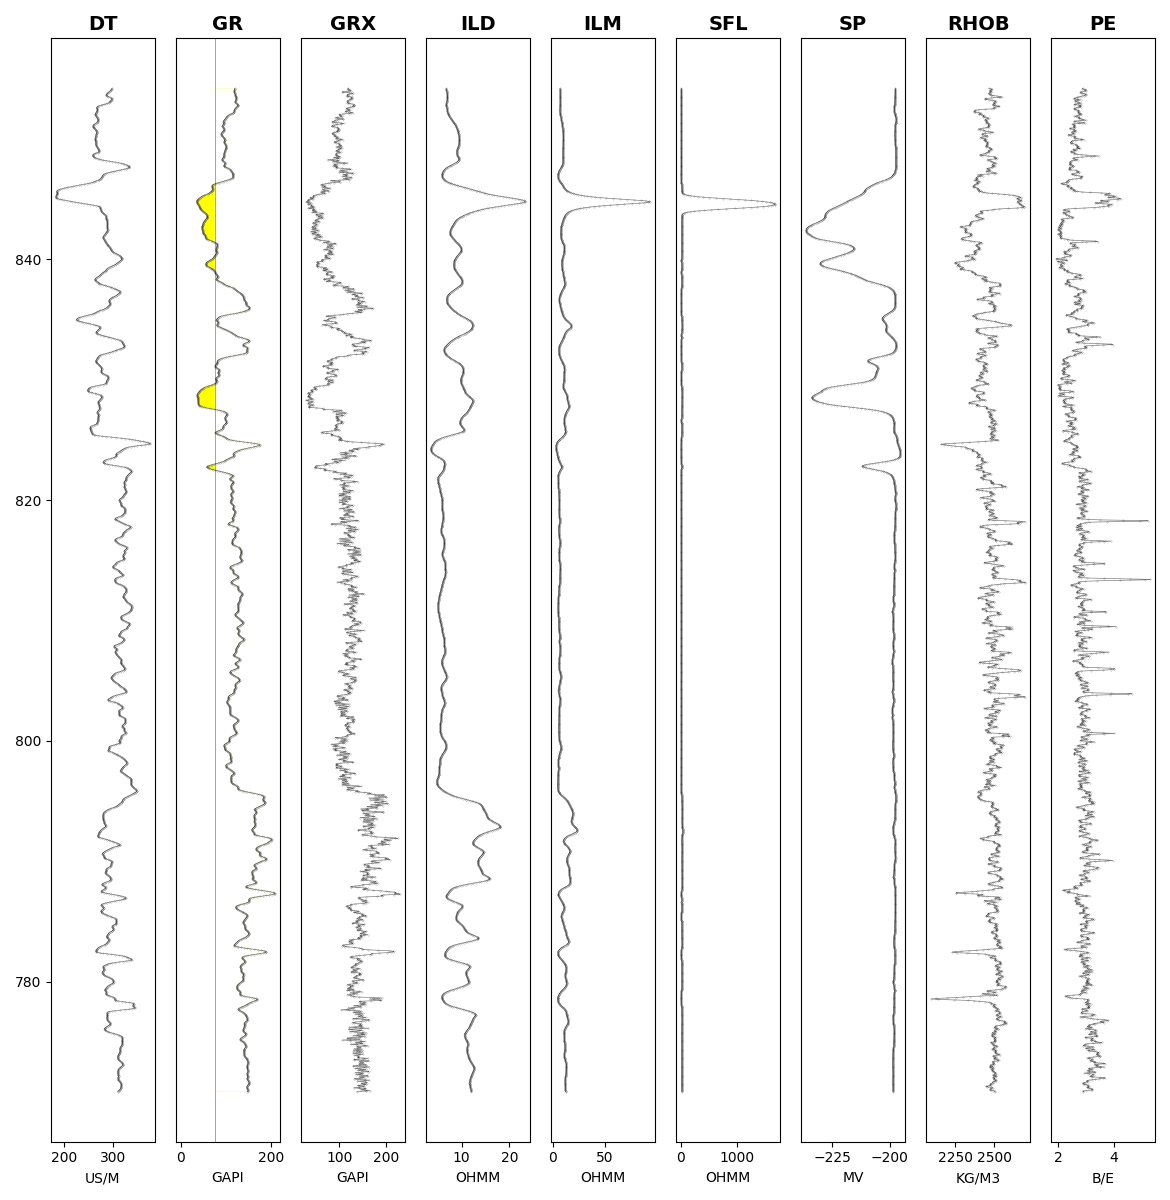
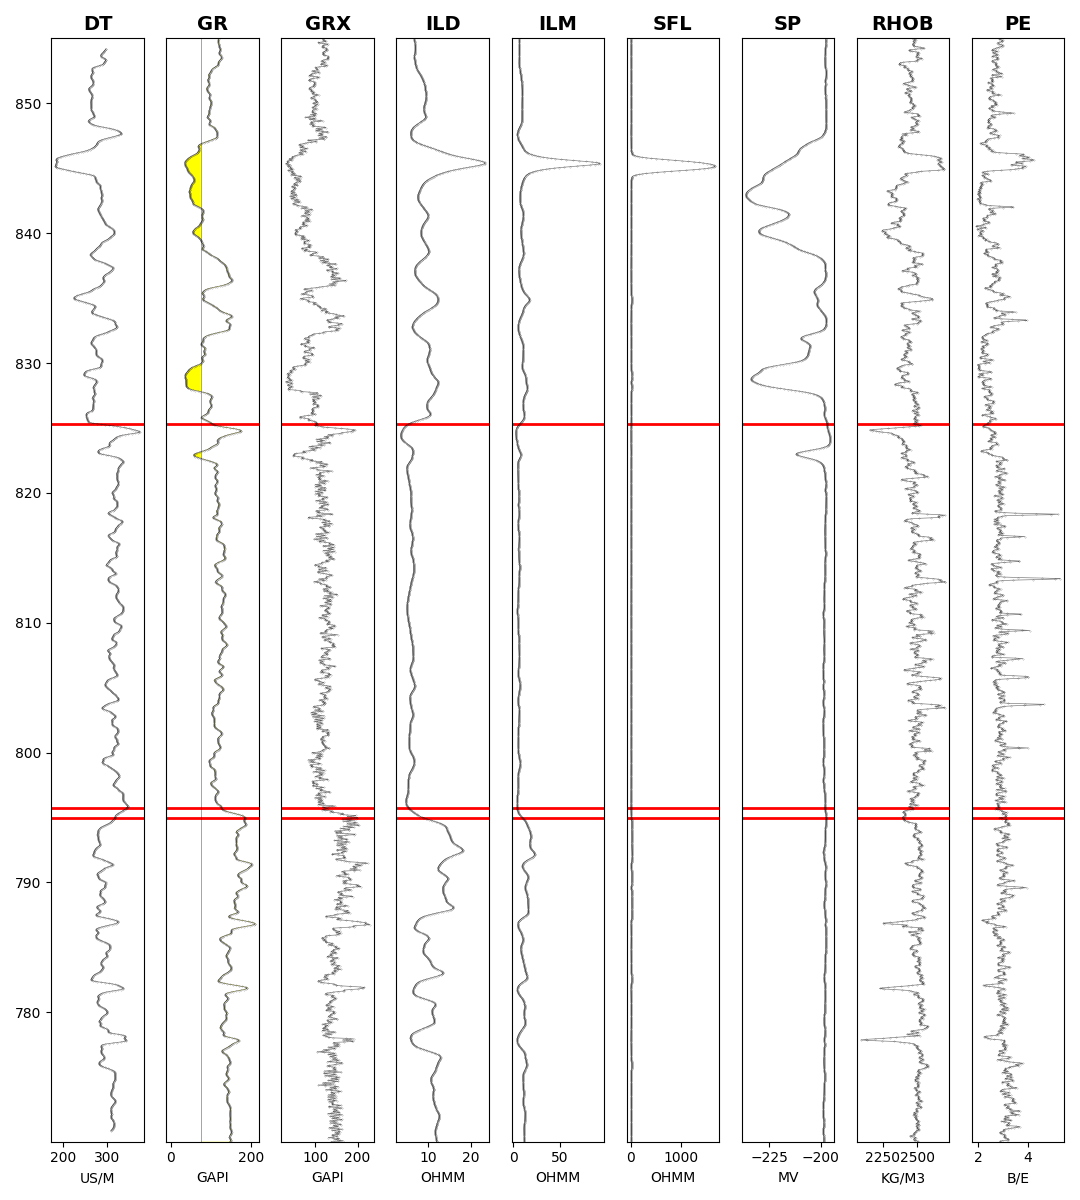
plotted tops as red axhlines with text

diff --git a/src/loghorz/andy06.py b/src/loghorz/andy06.py
@@ -9,14 +9,18 @@ well_tops = pd.read_csv('../../csv_files/1506tops.csv')
 print(well_tops.head())
 
 well_tops_list = []
-for tops in well_tops:
-    well_tops_list.append(well_tops)
+for _, row in well_tops.iterrows():  # iterrows is pandas
+    tops = {column: row[column] for column in well_tops.columns
+            if pd.notna(row[column]) and column != 'UWI'}  # notna skips NaN
+    well_tops_list.append(tops)
 
 print(f'well tops list: {well_tops_list}')
 
 columns, non_depth_curves, curve_unit_list, df = andy12()  # call bg function
 
-fig, axes = plt.subplots(1, columns, figsize=(columns * 1.3, 12))
+print(f'length of non depth: {len(non_depth_curves)}')
+
+fig, axes = plt.subplots(1, columns, figsize=(columns * 1.2, 12))
 
 for i, curve in enumerate(non_depth_curves):
     ax = axes[i]
@@ -24,14 +28,24 @@ for i, curve in enumerate(non_depth_curves):
         ax.set_yticklabels([])
         ax.set_yticks([])
     unit = curve_unit_list[i + 1]
-    top = well_tops[i + 1]
+    top = well_tops_list[0]
+
+    # plotting tops
+    for horz, depth in top.items():
+        if pd.notna(depth):
+            y = float(depth)
+            ax.axhline(y=y, color='red', lw=2, ls='-')
+            # if i == 0:
+            #     ax.text(x=20, y=y, s=horz, color='red', fontsize=10, ha='center', va='center')
 
     if curve != 'GR' and curve != 'PE':
+        # plotting curves
         df.plot(
             x=curve, y='DEPTH', color='black', title=curve, ax=ax, xlabel=unit,
             linewidth=0.5, marker='o', markersize='0.2', alpha=0.5, legend=False)
         ax.set_title(curve, fontweight='bold', fontsize=14)
-        ax.axhline(top, color='black', linewidth=0.5, alpha=0.5)
+        ax.set_ylim(df['DEPTH'].min(), df['DEPTH'].max())  # ensures the curves have the right limits
+
     elif curve == 'GR':
         df.plot(
             x='GR', y='DEPTH', color='black', title=curve, ax=ax, xlabel=unit,
@@ -40,11 +54,14 @@ for i, curve in enumerate(non_depth_curves):
         ax.fill_betweenx(df['DEPTH'], df['GR'], 0, facecolor='white')
         ax.axvline(75, color='black', linewidth=0.5, alpha=0.5)
         ax.set_title(curve, fontweight='bold', fontsize=14)
+        ax.set_ylim(df['DEPTH'].min(), df['DEPTH'].max())
+
     elif curve == 'PE':
         df.plot(
             x='PE', y='DEPTH', color='black', title=curve, ax=ax, xlabel=unit,
             linewidth=0.5, marker='o', markersize='0.2', alpha=0.5, legend=False)
         ax.set_title(curve, fontweight='bold', fontsize=14)
+        ax.set_ylim(df['DEPTH'].min(), df['DEPTH'].max())
 
 plt.tight_layout()
 plt.savefig('../../figures/tops_highres.png')
